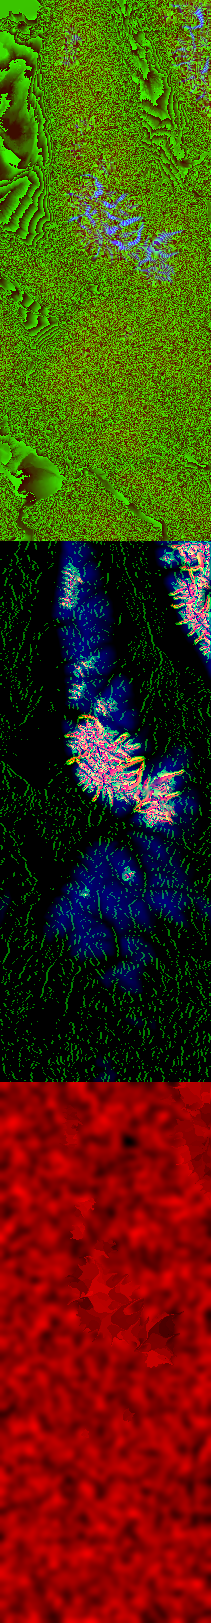
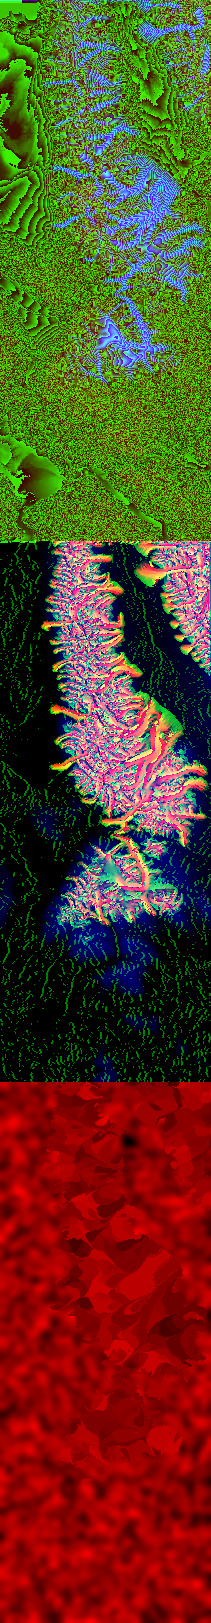
Ice-sheet inflow for the northern patches; runs use several cores
Patches whose northern edge the mapped Cordilleran ice sheet crosses take ice
in from the North America run, scaled by a factor fitted with the climate
(Bitterroot Range 23% -> 52%). Separate ice masses are solved side by side and
the mass balance is computed in strips, on up to 4 cores, with identical results.

diff --git a/docs/sources.html b/docs/sources.html
@@ -80,7 +80,7 @@
       <div class="card glass">
         <h3>Northern Hemisphere ice sheets at the LGM</h3>
         <p class="ref">Batchelor et al. 2019, "The configuration of Northern Hemisphere ice sheets through the Quaternary", <em>Nature Communications</em> 10, 3713. Data: <a href="https://osf.io/7jen3/">osf.io/7jen3</a></p>
-        <p>The best-estimate outline of the ice sheets, used for North America and Alaska. In the western mountains it counts only for central Idaho and Yellowstone, where it shows mountain ice; further west it covers the Cascades whole.</p>
+        <p>The best-estimate outline of the ice sheets, used for North America and Alaska. In the western mountains it counts for central Idaho and Yellowstone, where it shows mountain ice, and where the ice sheet flows into northern Idaho and western Montana; further west it covers the Cascades whole.</p>
       </div>
     </section>
 
@@ -146,6 +146,11 @@
         <h3>The Wind River ice cap</h3>
         <p class="ref">Birkel et al. 2012, "Climate inferences from a glaciological reconstruction of the late Pleistocene Wind River Ice Cap", <em>Arctic, Antarctic, and Alpine Research</em> 44, 265-276.</p>
         <p>Describes a plateau ice cap with lobes reaching the basin floors, the shape the model also produces.</p>
+      </div>
+      <div class="card glass">
+        <h3>Cordilleran ice sheet simulations (checked, not used)</h3>
+        <p class="ref">Seguinot et al. 2016, "Numerical simulations of the Cordilleran ice sheet through the last glacial cycle", <em>The Cryosphere</em> 10, 639-664. Data: <a href="https://doi.org/10.5281/zenodo.7802345">doi.org/10.5281/zenodo.7802345</a></p>
+        <p>Considered as the source of ice flowing into the northern patches. In Idaho its ice barely crosses the border and its domain stops short of Montana, so the ice sheet comes from this project's own North America run instead.</p>
       </div>
       <div class="card glass">
         <h3>Glaciation of the Sawtooth Valley</h3>

diff --git a/web/sources.html b/web/sources.html
@@ -80,7 +80,7 @@
       <div class="card glass">
         <h3>Northern Hemisphere ice sheets at the LGM</h3>
         <p class="ref">Batchelor et al. 2019, "The configuration of Northern Hemisphere ice sheets through the Quaternary", <em>Nature Communications</em> 10, 3713. Data: <a href="https://osf.io/7jen3/">osf.io/7jen3</a></p>
-        <p>The best-estimate outline of the ice sheets, used for North America and Alaska. In the western mountains it counts only for central Idaho and Yellowstone, where it shows mountain ice; further west it covers the Cascades whole.</p>
+        <p>The best-estimate outline of the ice sheets, used for North America and Alaska. In the western mountains it counts for central Idaho and Yellowstone, where it shows mountain ice, and where the ice sheet flows into northern Idaho and western Montana; further west it covers the Cascades whole.</p>
       </div>
     </section>
 
@@ -146,6 +146,11 @@
         <h3>The Wind River ice cap</h3>
         <p class="ref">Birkel et al. 2012, "Climate inferences from a glaciological reconstruction of the late Pleistocene Wind River Ice Cap", <em>Arctic, Antarctic, and Alpine Research</em> 44, 265-276.</p>
         <p>Describes a plateau ice cap with lobes reaching the basin floors, the shape the model also produces.</p>
+      </div>
+      <div class="card glass">
+        <h3>Cordilleran ice sheet simulations (checked, not used)</h3>
+        <p class="ref">Seguinot et al. 2016, "Numerical simulations of the Cordilleran ice sheet through the last glacial cycle", <em>The Cryosphere</em> 10, 639-664. Data: <a href="https://doi.org/10.5281/zenodo.7802345">doi.org/10.5281/zenodo.7802345</a></p>
+        <p>Considered as the source of ice flowing into the northern patches. In Idaho its ice barely crosses the border and its domain stops short of Montana, so the ice sheet comes from this project's own North America run instead.</p>
       </div>
       <div class="card glass">
         <h3>Glaciation of the Sawtooth Valley</h3>

diff --git a/glaciers/fit.py b/glaciers/fit.py
@@ -14,7 +14,7 @@ import numpy as np
 from scipy.ndimage import distance_transform_edt, gaussian_filter, map_coordinates
 
 from . import model
-from .regions import REGIONS, correction_path, setup
+from .regions import PATCH_NAMES, REGIONS, correction_path, inflow_scale, setup
 
 HELD_OUT = {"alaska": {"Central Brooks Range": (-154.0, -148.0, 67.4, 68.8)}}  # name: (west, east, south, north)
 
@@ -35,6 +35,8 @@ LIMITS = (-4.0, 4.0)  # about the gap between climate models and glacier-based c
 SMOOTH = 0.5      # each iteration, blend half of the field with a smoothed copy (1 control point)
 MIN_ICE = 100.0   # per degree² of spacing: km² of weighted ice before a control point responds
 EDGE = 60e3       # ice within this distance of an inflow edge comes from outside and is not fitted (m)
+INFLOW_GAIN = 0.5          # how much of the lobe's excess (as a log ratio of areas) each iteration takes off the inflow
+INFLOW_LIMITS = 0.1, 1.5   # shares of the coarse run's edge thickness
 FINAL = 3         # iterations on the region's own grid, where each one costs a full run
 TEST_AREA = 500.0  # km² of mapped ice below which nothing is held out: a test square could swallow the whole range
 
@@ -53,8 +55,9 @@ def main():
     lons = np.arange(np.floor(r["lon"].min()), np.ceil(r["lon"].max()) + spacing, spacing)
     lats = np.arange(np.floor(r["lat"].min()), np.ceil(r["lat"].max()) + spacing, spacing)
     dT = np.zeros((len(lats), len(lons)))  # the correction: one value per control point (K)
+    inflow = 1.0  # and, for a patch the ice sheet flows into, the share of the coarse run's thickness let in
     if a.resume and correction_path(a.region).exists():  # carry on from an earlier fit, which converges sooner
-        dT = np.load(correction_path(a.region))["dT"]
+        dT, inflow = np.load(correction_path(a.region))["dT"], inflow_scale(a.region)
     for bed0, (T, P, z_ref), dx, edge in model.levels(r["bed0"], r["climate"], r["dx"], r["H_edge"]):
         lon, lat, X, Y = (model.resample(v, bed0.shape) for v in (r["lon"], r["lat"], *np.meshgrid(r["x"], r["y"])))
         mapped = model.resample(r["mapped"] * 1.0, bed0.shape) > 0.5
@@ -64,8 +67,10 @@ def main():
         skip = ~known
         for cells in tests.values():
             skip |= cells
-        if edge is not None:  # ice near an inflow edge reflects the parent run, not this climate
-            skip |= distance_transform_edt(edge <= 0) * dx < EDGE
+        lobe = np.zeros_like(skip)  # ground near an inflow edge, whose ice reflects the inflow, not this climate
+        if edge is not None:
+            lobe = (distance_transform_edt(edge <= 0) * dx < EDGE) & ~skip
+            skip |= lobe
         weights = []  # per control point: (indices of nearby fitted cells, Gaussian weights)
         for px, py in (proj.forward(lo, la) for la in lats for lo in lons):
             d2 = (X - px) ** 2 + (Y - py) ** 2
@@ -79,7 +84,7 @@ def main():
             fitted = map_coordinates(dT, [(lat - lats[0]) / spacing, (lon - lons[0]) / spacing], order=1, mode="nearest")
             # Grown from nothing every time, exactly as a run does: with ice left from colder iterations the
             # fit would describe a state that a run never reaches.
-            H, _ = model.grow(bed0, (T + fitted, P, z_ref), dx, r["years"], edge)
+            H, _ = model.grow(bed0, (T + fitted, P, z_ref), dx, r["years"], None if edge is None else edge * inflow)
             ice = H > model.GLACIER
 
             # Update each control point from the weighted model and mapped ice areas around it.
@@ -94,13 +99,20 @@ def main():
             last, step = step, step * gain
             # Take the step, then pull each point part of the way towards its neighbours and keep it in bounds.
             old, dT = dT, np.clip((1 - SMOOTH) * (dT + step) + SMOOTH * gaussian_filter(dT + step, 1.0, mode="nearest"), *LIMITS)
+            # The coarse run's ice sheet is too thick at the patches' edges and its lobes run too far: the inflow
+            # is scaled until the lobe covers as much ground as the mapped one.
+            was = inflow
+            if a.region in PATCH_NAMES and lobe.any():
+                excess = np.log(((ice & lobe).sum() + 1) / ((mapped & lobe).sum() + 1))
+                inflow = float(np.clip(inflow * np.exp(-INFLOW_GAIN * np.clip(excess, -1, 1)), *INFLOW_LIMITS))
             score = overlap(ice, ~skip)
-            np.savez(correction_path(a.region), lons=lons, lats=lats, dT=dT)
+            np.savez(correction_path(a.region), lons=lons, lats=lats, dT=dT, inflow=inflow)
 
             held = "".join(f", held-out {name} {overlap(ice, cells & known):.0%}" for name, cells in tests.items())
             print(f"{dx:.0f} m grid, iteration {it + 1}: {time.time() - t0:.0f}s, fitted-area overlap {score:.0%}"
-                  f"{held}, correction {dT.min():+.1f}..{dT.max():+.1f} K, changed by {np.abs(dT - old).max():.2f} K", flush=True)
-            if np.abs(dT - old).max() < 0.1:
+                  f"{held}, correction {dT.min():+.1f}..{dT.max():+.1f} K, changed by {np.abs(dT - old).max():.2f} K"
+                  + (f", lobe overlap {overlap(ice, lobe):.0%}, inflow x{inflow:.2f}" if lobe.any() else ""), flush=True)
+            if np.abs(dT - old).max() < 0.1 and abs(np.log(inflow / was)) < 0.05:
                 break
     print(f"wrote {correction_path(a.region)}; now run: python -m glaciers {a.region}")
 

diff --git a/glaciers/model.py b/glaciers/model.py
@@ -8,11 +8,14 @@ Arrays are (rows, columns) with row 0 in the south and column 0 in the west. Len
 years, temperatures °C, precipitation mm per month.
 """
 
+import os
 import sys
+from concurrent.futures import ThreadPoolExecutor
 
 import numpy as np
 from scipy import sparse
 from scipy.ndimage import gaussian_filter, map_coordinates, uniform_filter
+from scipy.sparse.csgraph import connected_components
 from scipy.sparse.linalg import spsolve
 from scipy.special import erfc
 
@@ -33,10 +36,23 @@ SLIDE = 1e-4       # basal sliding: velocity per basal shear stress (m / yr / Pa
 SOFT_BED = 150.0   # sliding enhancement on smooth lowland (sediment) beds
 STEP_SPEED = 80.0  # time step = grid spacing / this (m/yr): results stop changing below it
 MAX_STEP = 25.0    # yr
+THREADS = int(os.environ.get("LGM_THREADS", min(os.cpu_count(), 4)))  # cores one run may use (more gained nothing on an M1)
+POOL = ThreadPoolExecutor(THREADS)
 ADJUST = 1 / 6     # share of a run's years spent adjusting on the full grid (twice that on the 2x coarser one)
 
 
 def mass_balance(s, T_ref, P, z_ref):
+    """mass_balance_block over blocks of rows, on several cores at once."""
+    n = s.shape[0]
+    if THREADS == 1 or s.size < 20000:
+        return mass_balance_block(s, T_ref, P, z_ref)
+    cuts = np.linspace(0, n, THREADS * 2 + 1).astype(int)
+    parts = POOL.map(lambda k: mass_balance_block(s[cuts[k]:cuts[k + 1]], T_ref[:, cuts[k]:cuts[k + 1]], P[:, cuts[k]:cuts[k + 1]],
+                                                  z_ref[cuts[k]:cuts[k + 1]]), range(len(cuts) - 1))
+    return np.concatenate(list(parts))
+
+
+def mass_balance_block(s, T_ref, P, z_ref):
     """Annual surface mass balance (m ice / yr) from monthly climate, lapse-corrected to surface s."""
     T = T_ref + LAPSE * (z_ref - s)  # monthly temperature at the surface: colder the higher it is
     # Snowfall: all of the precipitation below -2 °C, none above 2 °C, a mix in between (m water / yr).
@@ -125,7 +141,7 @@ def simulate(bed0, climate, dx, years, H_edge=None, H0=None):
         if active.size:
             mat = sparse.diags([diag.ravel(), east.ravel()[:-1], west.ravel()[1:], north.ravel()[:-nx], south.ravel()[nx:]],
                                [0, 1, -1, nx, -nx], format="csr")
-            dH[active] = spsolve(mat[active][:, active].tocsc(), dH[active])
+            dH[active] = solve(mat[active][:, active], dH[active])
         H = np.maximum(H + dH.reshape(ny, nx) + dt * (M - melt), 0.0)
         H[bed < SEA_LEVEL - MAX_WATER] = 0.0  # ice calves away over deep water
         H[edge] = 0.0 if H_edge is None else H_edge[edge]
@@ -133,6 +149,22 @@ def simulate(bed0, climate, dx, years, H_edge=None, H0=None):
     if sys.stderr.isatty():
         sys.stderr.write("\r" + " " * 50 + "\r")  # clear the bar
     return H, bed
+
+
+def solve(mat, b):
+    """Solve mat x = b. Separate ice masses are separate blocks of the system, solved on several cores at once."""
+    n, label = connected_components(mat, directed=False)
+    if THREADS == 1 or n == 1:
+        return spsolve(mat.tocsc(), b)
+    order = np.argsort(label, kind="stable")
+    bounds = np.searchsorted(label[order], np.arange(n + 1))
+    x = np.empty_like(b)
+
+    def one(k):
+        idx = order[bounds[k]:bounds[k + 1]]
+        x[idx] = spsolve(mat[idx][:, idx].tocsc(), b[idx]) if len(idx) > 1 else b[idx] / mat[idx[0], idx[0]]
+    list(POOL.map(one, sorted(range(n), key=lambda k: bounds[k] - bounds[k + 1])))  # largest first
+    return x
 
 
 def resample(a, shape):

diff --git a/glaciers/regions.py b/glaciers/regions.py
@@ -56,6 +56,12 @@ def correction(region, lon, lat):
     return map_coordinates(c["dT"], rc, order=1, mode="nearest")
 
 
+def inflow_scale(region):
+    """The fitted share of the coarse run's edge thickness that flows into a patch (1 without a fit)."""
+    c = np.load(correction_path(region)) if correction_path(region).exists() else {}
+    return float(c["inflow"]) if "inflow" in c else 1.0
+
+
 def setup(region, use_correction=True, mapped=False):
     """Everything a run needs, as a dict:
 
@@ -96,21 +102,31 @@ def setup(region, use_correction=True, mapped=False):
     fitted = correction(region, lon, lat) if use_correction else 0.0
     natural = climate = T + lgm_dT + fitted, P * ratio, z_ref
 
-    # The field evidence on this grid and, in mapped mode, the climate bent to it: colder inside the mapped ice
-    # (building up over MARGIN from its outline), far too warm for ice outside.
-    # (For the patches, the mountain-glacier outlines only: the ice-sheet outline covers the Cascades whole.)
-    evidence = outlines.rasterize(proj, x, y)
-    if region in PATCH_NAMES:  # the western patches use the ice-sheet outline only where it shows mountain ice
-        evidence = outlines.rasterize(proj, x, y, sheets=False) | evidence & (lon > SHEETS[0]) & (lat < SHEETS[1])
+    # The field evidence on this grid. For the western patches the ice-sheet outline counts only where it shows
+    # mountain ice (see SHEETS), unless the ice sheet itself flows into the patch (below).
+    mountain, everything = outlines.rasterize(proj, x, y, sheets=False), outlines.rasterize(proj, x, y)
+    evidence = mountain | everything & (lon > SHEETS[0]) & (lat < SHEETS[1]) if region in PATCH_NAMES else everything
+
+    # Ice entering from the coarse run: its thickness along this region's edges (only the outermost cells are
+    # used). Alaska takes it on every side. A western patch takes it only where the mapped ice sheet crosses its
+    # northern edge, north of SHEETS: elsewhere the coarse run over-glaciates lowlands and mountains alike.
+    H_edge = None
+    if region in PARENT or lat[-1].max() > SHEETS[1] and lon.min() > SHEETS[0]:
+        s, ice = export.read(WEB, "north_america", lon, lat)
+        H_edge = np.where(ice, np.maximum(s - bed0, 0), 0)
+        if region not in PARENT:
+            H_edge[:-1] = 0
+            H_edge[-1] *= everything[-1] & ~mountain[-1]
+            H_edge, evidence = (H_edge, everything) if H_edge.any() else (None, evidence)
+            if use_correction and H_edge is not None:
+                H_edge *= inflow_scale(region)
+
+    # In mapped mode, the climate bent to the evidence: colder inside the mapped ice (building up over MARGIN
+    # from its outline), far too warm for ice outside.
     if mapped:
         inside = np.minimum(distance_transform_edt(evidence) * dx / MARGIN, 1)
         climate = climate[0] + np.where(inside > 0, MAPPED[0] * inside, MAPPED[1]), *climate[1:]
 
-    # Ice entering from a coarser run: its thickness along this region's edges (only the outermost cells are used).
-    H_edge = None
-    if region in PARENT:
-        s, ice = export.read(WEB, PARENT[region], lon, lat)
-        H_edge = np.where(ice, np.maximum(s - bed0, 0), 0)
     return dict(proj=proj, x=x, y=y, dx=dx, lon=lon, lat=lat, bed0=bed0, rebuilt=rebuilt, climate=climate,
                 natural=natural, mapped=evidence, known=known, H_edge=H_edge, years=years,
                 corrected=bool(np.any(fitted)))

diff --git a/README.md b/README.md
@@ -62,7 +62,8 @@ and cache them in `data/` (PRISM alone is 2 GB).
    surface, and thickness waves travelling with the ice) are implicit. The time step is the grid spacing
    ÷ 80 m/yr, below which results stop changing (2.5 years on a 200 m grid). Ice first settles on grids
    4× and 2× coarser, then adjusts on the full grid, which gives the same ice (within 3%) about 4× sooner. The bed
-   sinks under the ice load.
+   sinks under the ice load. A run uses up to 4 cores (`LGM_THREADS` to change): separate ice masses are solved
+   side by side, which takes about a third off a patch with many glaciers and about a tenth off one ice cap.
 5. **Climate correction** (`glaciers/fit.py`): the climate models' LGM cooling has the wrong regional shape
    over the Rockies: about −6.5 °C in central Idaho, where glacier modelling implies −8.5 to −10 °C, and
    too cold near the ice sheets. So a smooth temperature correction on a 0.5-1° grid is fitted to the mapped
@@ -92,18 +93,18 @@ and cache them in `data/` (PRISM alone is 2 GB).
 |---|---|---|---|---|---|
 | North America (no correction) | 20 km | 16.7M km² | 18.6M km² | 84% | – |
 | Alaska | 1.5 km | 642,000 km² | 657,000 km² | 64% | Central Brooks Range 15% |
-| Western US, 95 patches together | 200 m | 144,800 km² | 138,200 km² | 52% (weighted by mapped ice) | – |
+| Western US, 95 patches together | 200 m | 161,800 km² | 155,100 km² | 54% (weighted by mapped ice) | – |
 | Yellowstone and Wind River | 200 m | 43,700 km² | 39,400 km² | 69% | 71% |
 | Sierra Nevada | 200 m | 14,400 km² | 15,300 km² | 66% | 71% |
 | Sawtooth Range | 200 m | 9,700 km² | 10,300 km² | 60% | 57% |
 | Uinta Mountains | 200 m | 3,600 km² | 3,200 km² | 59% | 63% |
 | San Juan Mountains | 200 m | 9,800 km² | 9,500 km² | 57% | 48% |
 | Central Colorado | 200 m | 8,100 km² | 8,200 km² | 52% | 50% |
+| Bitterroot Range (with ice-sheet inflow) | 200 m | 30,000 km² | 28,800 km² | 52% | 54% |
 | Oregon Cascades | 200 m | 6,900 km² | 7,900 km² | 45% | 39% |
 | Lost River Range | 200 m | 3,200 km² | 3,600 km² | 45% | 29% |
 | Olympic Mountains | 200 m | 2,000 km² | 1,200 km² (valley tongues only) | 33% below 1,100 m | 45% |
 | Mount Rainier | 200 m | 4,800 km² | 2,200 km² (valley tongues only) | 29% below 1,100 m | 22% |
-| Bitterroot Range | 200 m | 17,800 km² | 14,400 km² | 23% | 21% |
 | Central Cascades | 200 m | 3,300 km² | 1,900 km² (valley tongues only) | 21% below 1,100 m | 34% |
 
 Overlap is intersection ÷ union of computed and mapped ice; the held-out part is one in five quarter-degree
@@ -115,15 +116,22 @@ squares, left out of the fit. Every patch's numbers are in `web/data/<patch>.jso
   - In Washington's Cascades and Olympics the outlines draw only the valley tongues, not the high ground
     they flowed from, so fits and scores there use ground below 1,100 m only. The model also puts ice on
     the ridges between the tongues.
-  - The ice-sheet outline counts as evidence only south of 46.5°N and east of 120°W, where it shows the
-    mountain ice of central Idaho and Yellowstone. Further west it covers the Cascades whole.
+  - The ice-sheet outline counts as evidence south of 46.5°N and east of 120°W, where it shows the
+    mountain ice of central Idaho and Yellowstone, and in the patches the ice sheet flows into (below).
+    Further west it covers the Cascades whole.
   - Many small ranges are drawn as rough blobs marking that ice existed, not as glacier outlines. The
-    model's glaciers can sit on the high ground beside a blob and score 0%. For the 68 patches with under
-    500 km² of mapped ice (8,000 km² in all, against 5,900 km² computed), compare areas, not overlap.
-- **No ice sheet in the patches.** North of about 46.5°N the Cordilleran ice sheet flowed in from Canada;
-  the patches have no inflow, so the Bitterroot patch and those near the border show local glaciers only
-  (hence its 23%), and nothing is patched north of 48.3°N, where the mountain-glacier outlines stop. The
-  coarse North America run shows the ice sheet there.
+    model's glaciers can sit on the high ground beside a blob and score 0%. For the 66 patches with under
+    500 km² of mapped ice (7,700 km² in all, against 5,600 km² computed), compare areas, not overlap.
+- **The ice sheet in the patches.** North of about 46.5°N the Cordilleran ice sheet flowed in from Canada.
+  Where the mapped ice sheet crosses a patch's northern edge (five patches in northern Idaho and western
+  Montana), the patch takes ice in across that edge at the coarse North America run's thickness, scaled by a
+  factor fitted with the climate so that the lobe covers as much ground as the mapped one. This took the
+  Bitterroot patch from 23% to 52%. Two small patches did not fit well: the Garnet Range grows far too much
+  ice even with the least inflow allowed, and North Hills reaches the most inflow allowed (overlap 36% and
+  26%). Nothing is patched north of 48.3°N, where the mountain-glacier outlines stop; the coarse run shows
+  the ice sheet there. The ice sheet published as Seguinot et al. 2016's Cordilleran simulations was
+  checked as an alternative source of inflow, but in Idaho it barely crosses the border and its domain
+  stops short of Montana.
 - **Patch edges.** Each box reaches 10 km past its mapped ice. Where the computed ice grows further, it is
   cut off along the edge of the box in a straight line (north of Mount Rainier, for instance).
 - About a dozen small, dry ranges (mostly in the Great Basin) reach the fit's limit of 4 °C of extra
@@ -180,6 +188,8 @@ Everything used to recreate the LGM ice, and what each is used for.
   USGS estimate; the cone put back here is a plain cone of about that height, not a geological reconstruction.
 
 **Checks against field studies** (not model inputs)
+- Cordilleran ice sheet simulations (checked as a source of inflow, not used): Seguinot et al. 2016, *The Cryosphere* 10,
+  639-664. Data: https://doi.org/10.5281/zenodo.7802345
 - Wind River ice cap: Birkel et al. 2012, "Climate inferences from a glaciological reconstruction of the late
   Pleistocene Wind River Ice Cap", *Arctic, Antarctic, and Alpine Research* 44, 265-276.
 - Sawtooth Valley glaciation: Thackray et al. 2004, *Geology* 32, 225-228; USGS Open-File Report 2004-1222.
